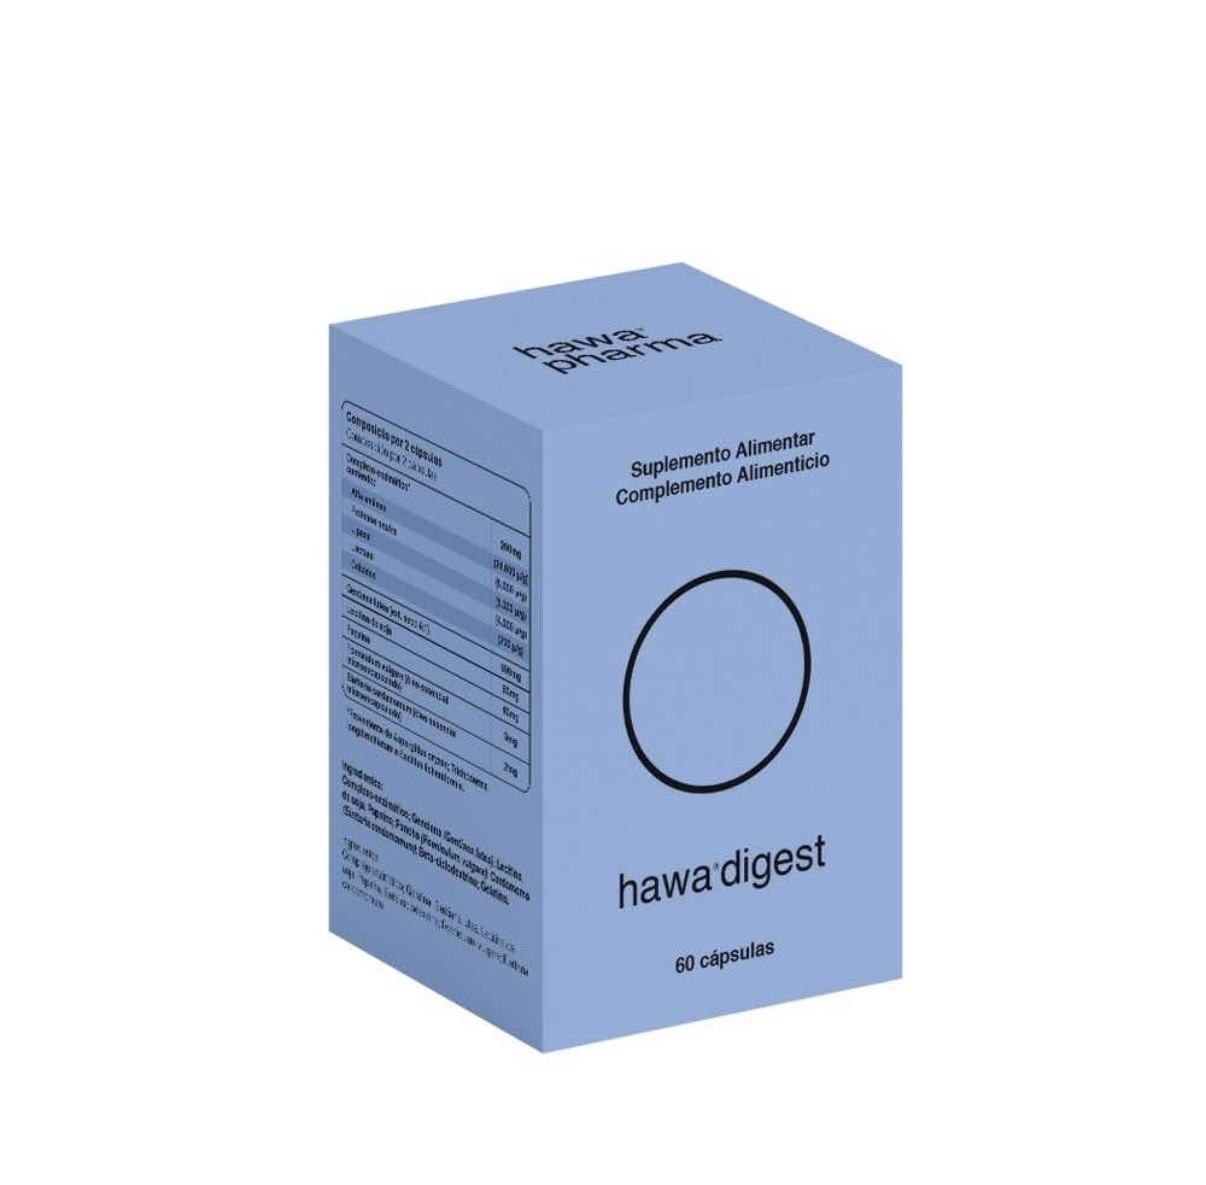
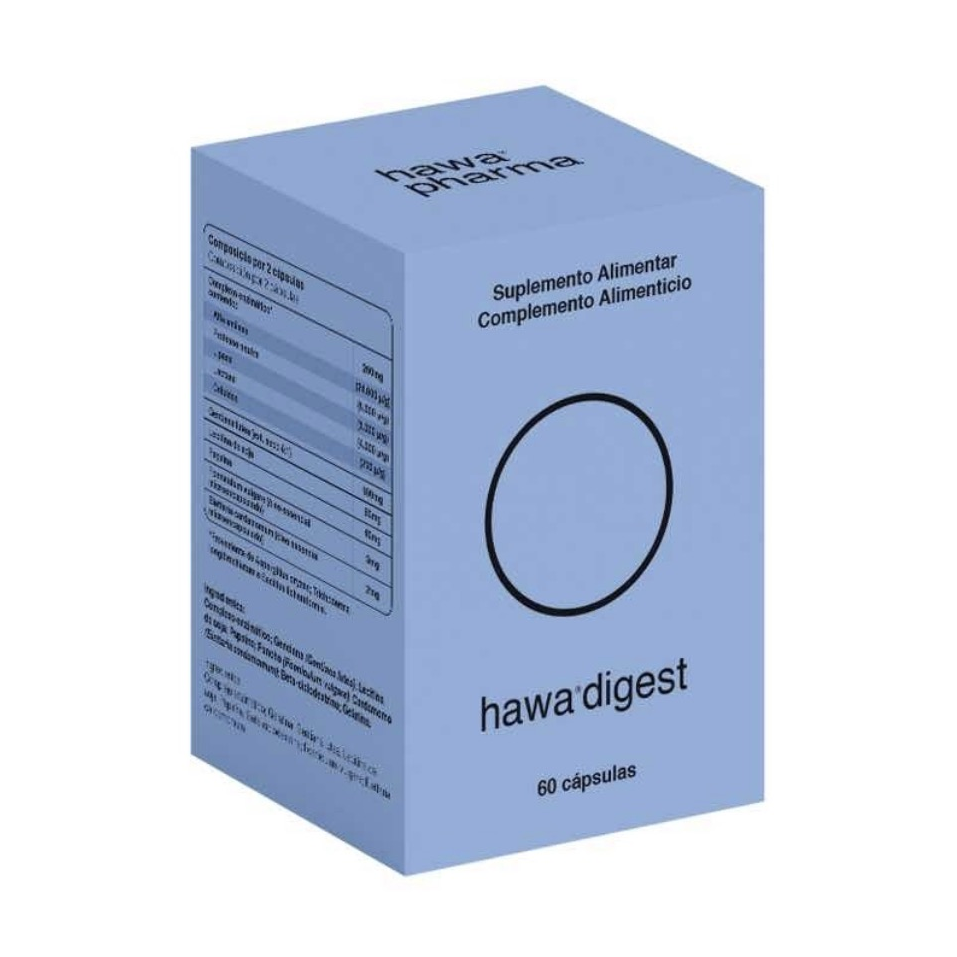
Shop: fix product card image alignment and Hawa scale inconsistency
- Add .card-image--photo class for Augment Life and Hawa brands:
  object-fit:cover + no padding so images fill the card and brand tag
  sits properly on the image (not on floating white padding)
- Auto-crop all 6 Hawa images to their content bounding box (trimming
  excess whitespace) to normalize box size across products
- Replace 4 catalog-PDF-extracted Augment Life images (Quercetin,
  Magnesium, Vitamin D3+K2, Collagen) with proper product photos from
  Google Drive ZIP — proper near-square compositions, no grey background

Changed region(s): [[0.1818, 0.0909, 0.8182, 0.9394], [0.5152, 0.3636, 0.697, 0.4848]]

diff --git a/seena-shop.html b/seena-shop.html
@@ -49,6 +49,8 @@ main{max-width:1200px;margin:0 auto;padding:48px 48px 80px}
 .product-card:hover{transform:translateY(-3px);box-shadow:0 12px 32px rgba(61,88,67,.1);border-color:var(--stone)}
 .card-image{aspect-ratio:1;background:#fff;display:flex;align-items:center;justify-content:center;position:relative;overflow:hidden;padding:16px}
 .card-image img{width:100%;height:100%;object-fit:contain;display:block}
+.card-image--photo{padding:0}
+.card-image--photo img{object-fit:cover}
 .modal-img img{width:100%;height:100%;object-fit:contain;display:block;border-radius:20px 0 0 0}
 .card-ph{width:100%;height:100%;display:flex;flex-direction:column;align-items:center;justify-content:center;gap:8px}
 .card-ph .ico{width:44px;height:44px;background:var(--cream-dark);border-radius:50%;display:flex;align-items:center;justify-content:center}
@@ -358,6 +360,8 @@ const products = {
 const iconMap = {supp:SVG_SUPP, heart:SVG_HEART, bulb:SVG_BULB, tea:SVG_TEA, skin:SVG_SKIN, set:SVG_SET};
 const brandMap = {augment:'Augment Life', oxxyo3:'OXXYO3', hawa:'Hawa Pharma', tallow:'Pure Tallow', redlight:'Red Light', altai:'Altai Code Tea'};
 
+const photosBrands = new Set(['augment','hawa']);
+
 function buildCard(p, brand) {
   const isSet = p.icon === 'set';
   const imgBg = isSet ? 'background:linear-gradient(135deg,#e8f0ea,#d4e6d8)' : '';
@@ -367,8 +371,9 @@ function buildCard(p, brand) {
   const imgContent = p.imgKey
     ? `<img src="product_images/${p.imgKey}.png" alt="${p.name}" loading="lazy">${setLabel}`
     : `<div class="card-ph"><div class="ico">${iconMap[p.icon]||SVG_SUPP}</div>${setLabel}</div>`;
+  const photoClass = (photosBrands.has(brand) && p.imgKey) ? ' card-image--photo' : '';
   return `<div class="product-card" onclick='openModal(${escaped},"${brand}")'>
-    <div class="card-image" style="${imgBg}">
+    <div class="card-image${photoClass}" style="${imgBg}">
       ${imgContent}
       <span class="card-tag">${tagLabel}</span>
     </div>
